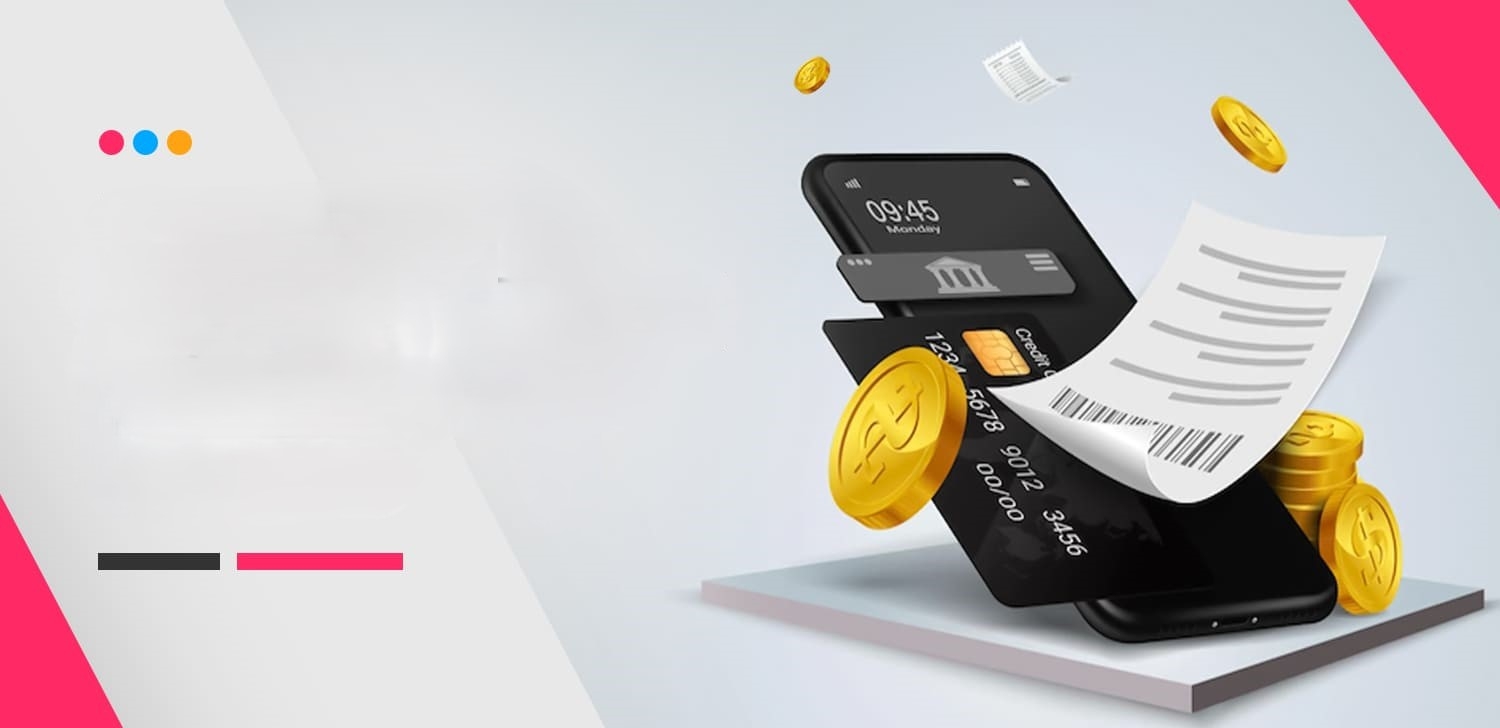
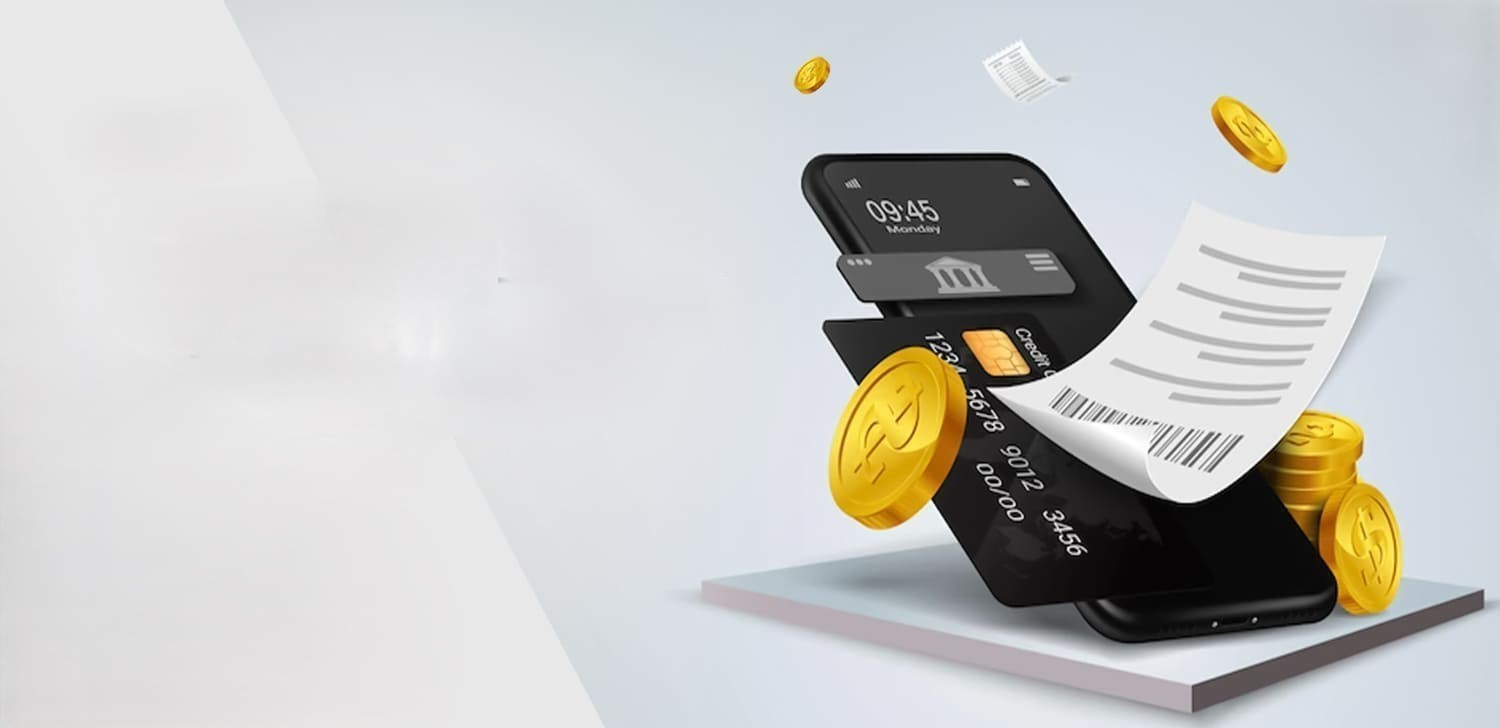
Changed the style

diff --git a/Home.html b/Home.html
@@ -7,9 +7,10 @@
     <link rel="shortcut icon" type="x-icon" href="Assets/icon.png">
     <title>Expense Tracker</title>
     <script src="Assets/tailwind.js"></script>
-    <link rel="stylesheet" href="Assets/Style.css">
+    <link rel="stylesheet" href="https://fonts.googleapis.com/css2?family=Material+Symbols+Outlined:opsz,wght,FILL,GRAD@24,400,0,0" />
+    <!-- <link rel="stylesheet" href="Assets/Style.css"> -->
 
-    <style> 
+    <!-- <style> 
          body{
         overflow-y:hidden ;
         height:1024px;
@@ -169,11 +170,11 @@
 
 
 Resources
-    </style>
+    </style> -->
 </head>
-<body class="bg-cover bg-center bg-no-repeat">
-    <div class="h-screen flex flex-col">
-        <nav class="flex items-center justify-between w-screen bg-fuchsia-900 p-3 h-12xl md:16xl sm:16xl">
+<body class="bg-slate-100 w-screen">
+    <div class="">
+        <nav class="absolute bg-gradient-to-r from-cyan-500 to-cyan-600 z-20 flex items-center justify-between w-full   h-[70px] md:h-[50px] sm:h-[50px] absolute top-0">
     
             <div class="flex items-center">
                 <img src="Assets/icon.png" alt="ExpenseTracker Logo" class="h-8 w-10 mr-2 ">
@@ -198,24 +199,132 @@ Resources
             </div>
 
         </nav>
+    </div> 
+        <div class="">
+            <div class="">
 
-        <div id="homeImg" class="flex-1 bg-cover bg-no-repeat bg-center" style="background-image: url('Assets/exp.jpg');" >
-            <div class=" h-screen w-full grid place-content-center border-transparent m-auro">
                 
-                <form class="w-[380px] h-[340px] sm:w-[580px] sm:h-[380px] grid place-content-center md:w-[700px] md:h-[380px] md:grid md:place-content-center  p-4">
-                    <div id="welcome">
-                    <h1 class="text-[30px] md:text-4xl  font-bold " id="welcome-message" style="font-family:Verdana, Geneva, Tahoma, sans-serif;"></h1>
+                <img src="Assets/image/eIMG.jpg" alt="" class="object-fill saturate-150 brightness-90 h-[650px] sm:h-[450px] md:h-[500px] w-full  absolute top-[28px]   ">
                 
-                    </div>
-                    <h1 class="md:text-[30px] text-[25px] font-bold opacity-90 pl-12 mt-4" style="font-family:'Gill Sans', 'Gill Sans MT', Calibri, 'Trebuchet MS', sans-serif;">(Your Personal Finance Manager)</h1>
-                    <div class="wrap w-[300px] mx-auto sm:w-[500px] lg:w-[620px] lg:mx-auto sm:mx-auto ">
-                        <button class="button"><a href="Login_front.php" style="text-decoration: none; color: white;">Login</a>
-                    </div>
-                </form> 
-             </div>
+            </div>
+            <div class="bg-transperent pt-[3em] md:pl-[1em] sm:ml-4 md:pt-12 md:pl-6  absolute   top-[3em] md:top-[5em]  place-content-center grid w-[55vw] ">
+                <div class="w-60 sm:w-96 md:mb-4  mt-2vw ml-2vw md:w-[700px] text-[30px] md:text-[42px] font-bold text-black">
+                    Effortlessly Track Your Expenses Year-Round!
+                
+                </div>
+
+           
+                <div class="w-44 sm:w-80  text-justify  md:w-[550px] font-semibold ">
+                    Welcome to Expense Tracker !Your Personal Finance Manager Effortlessly manage your finances by tracking daily, weekly, monthly, and yearly expenses. Take control of your financial future with our simple and intuitive platform. Start today with ExpenseTracker!
+                 </div>
+                <div class="bg-gradient-to-r from-cyan-300 to-cyan-800 mt-6 w-24 md:w-32 text-white hover:font-bold hover:bg-cyan-900 grid place-content-center border-2 border-cyan-600 p-1 shadow-lg shadow-gray-600">
+                     Login
+                </div>
+            </div>
         </div>
+
+    <div class="relative top-[700px] mb-[210px] sm:top-[530px] sm:mb-[20px] md:top-[580px] md:flex md:justify-evenly sm:flex sm:justify-evenly grid place-content-center my-[40px] md:my-[60px]">
+    
+        <div  class="flex bg-white mb-4 bg-zinc-100  border-2  border-white  shadow-gray-400 shadow-2xl  w-[90vw] sm:w-[30vw]  h-32">
+        
+            <div class="material-symbols-outlined text-[80px] p-2 md:p-4 bg-gradient-to-r from-cyan-400 to-cyan-700  text-white grid place-content-center">
+                add_task
+            </div>
+
+            <div class="grid place-content-center  text-[30px] md:text-[28px] sm:text-[20px] text-center font-bold ">
+               Effortlessly Add Expenses
+            </div>
+    
+        </div>
+
+        <div class="flex bg-white mb-4 bg-zinc-100  border-2 border-white   shadow-gray-400 shadow-2xl  w-[90vw] sm:w-[30vw] h-32">
+            <div class="material-symbols-outlined text-white sm:p-2 bg-gradient-to-r from-cyan-400 to-cyan-800 text-[80px] grid place-content-center p-4 md:p-4">
+            update
+            </div>
+            <div class="grid place-content-center  md:text-[28px] sm:text-[20px] text-[30px] text-center font-bold ">
+                Update Expense Anytime
+            </div>
+            
+        </div>
+    
+        <div class="flex bg-white   border-2 border-white  shadow-gray-400 shadow-2xl  w-[90vw] sm:w-[30vw] h-32">            
+            <span class="material-symbols-outlined md:p-4 sm:p-2 p-4 bg-gradient-to-r from-cyan-400 to-cyan-900 text-white text-[80px] grid place-content-center">
+                monitoring
+            </span>
+            <div class="grid place-content-center bg-zinc-100 md:text-[28px] text-[30px] sm:text-[20px] text-center md:pl-4 font-bold ">
+                Track  Easily and Effectively
+            </div>
+
+
+        </div>
+    
     </div>
-    <footer class="bg-fuchsia-900  h-8 w-full flex-column-reverse"></footer>
+    
+    <div class=" ">
+        <div class=" w-full h-[580px] md:h-[630px] top-[700px]  ">
+            <div class="  py-12  grid place-content-center md:place-content-start sm:place-content-center ">
+            <div class="">
+                <img src="Assets/image/e10.jpg" alt="" class="relative top-[600px] shadow-sm shadow-gray-600 object-fill md:top-[670px] h-[300px] md:h-[340px] rounded-b-full rounded-tr-full ml-24 md:ml-24 z-10 ">
+        
+
+            </div>
+            <div class="">
+                <img src="Assets/image/gExp.jpg" alt="" class="relative top-[470px]  z-40  md:h-[150px] h-[130px] md:top-[520px] object-fill  rounded-b-full  rounded-tl-full shadow-sm shadow-black ml-[40px] md:ml-8 ">
+            </div>
+            <div class="material-symbols-outlined relative top-[160px] w-[57px] md:w-[70px] md:top-[150px] ml-20 rounded-sm shadow-sm shadow-black text-[40px] p-2 md:text-6xl bg-gradient-to-r from-cyan-400 to-cyan-800 text-white z-20">
+                pie_chart
+            </div>
+            <div class="">
+            <img src="Assets/image/e12.jpeg" alt="" class="relative  top-[350px] h-[60px] md:h-[80px] w-[25vw] md:w-[200px] ml-[280px]  rounded-tr-3xl rounded-bl-3xl shadow-sm shadow-black border-[1px] border-cyan-700 z-20">
+            </div>
+            <div>
+            <img src="Assets/image/e13.png" alt="" class=" relative   top-[25px] md:top-[10px] h-[200px] md:h-[220px] w-[33vw] sm:w-[180px] md:w-[180px] ml-[260px] md:ml-[300px]   rounded-bl-3xl   opacity-40 bg-black ">
+            </div>
+            </div>
+        </div>  
+        <div class="bg-zinc-200 h-[800px] md:h-[500px] w-full">
+
+        
+         
+        <div class="w-[90vw]  md:w-[63vw] ml-8 md:ml-[36vw] relative top-[390px] md:top-[95px]  ">
+             <div class="text-[33px]  font-bold md:text-4xl mb-2  md:mb-4">
+                 Visualize Your Spending with Dynamic Graphs
+             </div>
+             <div class="md:my-2 my-2 text-justify ">
+                
+                <span>
+                    Effortlessly keep track of your expenses with our interactive graphing tools. Whether you're analyzing your spending by day, week, month, or year, our dynamic pie and column charts provide clear, insightful visuals to help you manage your finances effectively. Make informed decisions and achieve your financial goals with ease.
+                </span>       
+                    
+            </div>
+            <div class="font-bold my-4 md:my-4 ">
+                <span class="material-symbols-outlined  align-top bg-gradient-to-r from-cyan-400 to-cyan-800 rounded-full text-white">
+                     check_circle
+                </span> 
+                Discover patterns in your spending habits.
+            </div>
+            <div class="font-bold mb-4 ">
+                <span class="material-symbols-outlined align-top bg-gradient-to-r from-cyan-400 to-cyan-800 rounded-full text-white">
+                    check_circle
+               </span>
+                Make smarter financial choices.
+            </div>
+            <div class="font-bold  ">
+                <span class="material-symbols-outlined bg-gradient-to-r from-cyan-400 to-cyan-800 rounded-full text-white  align-top ">
+                    check_circle
+                </span>
+                Stay on top of your budget effortlessly!
+            </div>
+        </div>
+        </div>
+    </div> 
+
+    
+   
+
+        <footer class="h-[40px] bg-gradient-to-r from-cyan-400 to-cyan-800 w-full">
+
+        </footer>
 
     <script>
         document.addEventListener("DOMContentLoaded", function() {

diff --git a/endPoint/addExpense.php b/endPoint/addExpense.php
@@ -1,17 +1,17 @@
 <?php
 require("Connection.php");
 
-// Initialize variables
+
 $expenseName = '';
 $price = '';
 $description = '';
 $createdAt = date('Y-m-d');
-$id = 1; // Replace with the actual logged in user's ID
+$id = 1; 
 
-// Handle form submission
+
 if ($_SERVER["REQUEST_METHOD"] == "POST") {
     if (isset($_POST['add'])) {
-        // Insert new expense
+       
         $expenseName = $_POST['expenseName'];
         $price = $_POST['price'];
         $description = $_POST['description'];
@@ -21,13 +21,12 @@ if ($_SERVER["REQUEST_METHOD"] == "POST") {
                 VALUES ('$expenseName', '$price', '$description', '$createdAt', '$id')";
 
         if ($conn->query($sql) === TRUE) {
-            header("Location: addExpense.php"); // Redirect after successful insertion
-            exit();
+            header("Location: addExpense.php"); 
         } else {
             echo "Error: " . $sql . "<br>" . $conn->error;
         }
     } elseif (isset($_POST['update'])) {
-        // Update existing expense
+      
         $edit_id = $_POST['edit_id'];
         $expenseName = $_POST['expenseName'];
         $price = $_POST['price'];
@@ -39,7 +38,7 @@ if ($_SERVER["REQUEST_METHOD"] == "POST") {
                 WHERE SN='$edit_id'";
 
         if ($conn->query($sql) === TRUE) {
-            header("Location: addExpense.php"); // Redirect after successful update
+            header("Location: addExpense.php"); 
             exit();
         } else {
             echo "Error updating record: " . $conn->error;
@@ -47,21 +46,21 @@ if ($_SERVER["REQUEST_METHOD"] == "POST") {
     }
 }
 
-// Delete expense
+
 if (isset($_GET['delete_id'])) {
     $delete_id = $_GET['delete_id'];
 
     $sql = "DELETE FROM addexpense WHERE SN='$delete_id'";
 
     if ($conn->query($sql) === TRUE) {
-        header("Location: addExpense.php"); // Redirect after successful delete
+        header("Location: addExpense.php"); 
         exit();
     } else {
-        echo "Error deleting record: " . $conn->error;
+        echo "Error deleting record: " . $con->error;
     }
 }
 
-// Fetch expenses data for display
+
 $sql = "SELECT * FROM addexpense WHERE id='$id'";
 $result = $conn->query($sql);
 

diff --git a/addYourExpense.php b/addYourExpense.php
@@ -222,3 +222,20 @@ $con->close();
 
 
 
+<!-- <script>
+        document.addEventListener("DOMContentLoaded", function() {
+            const welcomeMessage = "Welcome to Expense Tracker";
+            let index = 0;
+            const speed = 130; // typing speed in milliseconds
+
+            function typeWriter() {
+                if (index < welcomeMessage.length) {
+                    document.getElementById("welcome-message").textContent += welcomeMessage.charAt(index);
+                    index++;
+                    setTimeout(typeWriter, speed);
+                }
+            }
+
+            typeWriter();
+        });
+    </script> -->

diff --git a/Login_front.php b/Login_front.php
@@ -13,7 +13,7 @@
 </head>
 <body class="bg-gradient-to-br from-cyan-100 to-cyan-200">
 
-    <!-- Navbar Goes Here -->
+   
     <header class="w-full  h-auto">
 
         <nav class="bg-purple-950 w-full  h-[60px] md:h-[45px] flex justify-between items-center  lg:items-center  ">
@@ -40,7 +40,7 @@
         </nav>
 
     </header>
-    <!-- Navbar ends Here -->
+    
 
     <div  class="grid place-content-center mx-auto h-screen md:w-[700px] ">
     <div class="container6 bg-white w-[400px] sm:w-[600px] md:w-[800px] p-8 border-2 border-white shadow-lg shadow-slate-500 border-t-fuchsia-900">

diff --git a/Dashboard.php b/Dashboard.php
@@ -86,7 +86,7 @@
 </div>
     
 <script>
-    // Get the username from PHP session and set the welcome message
+    
     const userName = "<?php echo isset($_SESSION['username']) ? $_SESSION['username'] : 'Guest'; ?>";
     document.getElementById("welcome-message").innerText = `Hello, ${userName}!`;
 </script>

diff --git a/expenseHistory.php b/expenseHistory.php
@@ -65,7 +65,7 @@ if ($sortOption == 'expense') {
 
 $stmt = $con->prepare($query);
 
-// Dynamically bind parameters based on number of conditions
+
 $types = str_repeat('s', count($params));
 $stmt->bind_param($types, ...$params);
 
